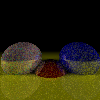
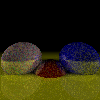
quick fix

diff --git a/src/main.rs b/src/main.rs
@@ -12,11 +12,9 @@ use sdl2::keyboard::Keycode;
 use std::time::Duration;
 use sdl2::rect::Rect;
 use std::sync::mpsc::{self, Sender};
-use std::fs::File;
-use std::io::BufWriter;
 
-const WIDTH: u32 = 400;
-const HEIGHT: u32 = 400;
+const WIDTH: u32 = 1000;
+const HEIGHT: u32 = 1000;
 
 //TODO: implement a function that checks intersects on its own
 
@@ -101,7 +99,7 @@ pub fn main() {
         .unwrap();
 
     let res_multiplier: u32 = 1; //temp
-    let resolution: Vec<u32> = vec![100, 100]; 
+    let resolution: Vec<u32> = vec![500, 500]; 
     let mut canvas = window.into_canvas().build().unwrap();
     //canvas.set_logical_size(resolution[0], resolution[1]).expect("could not set res");
     let mut event_pump = sdl_context.event_pump().unwrap();
@@ -542,7 +540,7 @@ fn trace_ray(camera_origin: &Vec<f64>, view: Vec<f64>, tmin: f64, tmax: f64, lig
         //indirect lighting comes after reflectivity? (also recursive)
         let mut rng = rand::thread_rng();
         if recursion_depth_indirect > 0.0 { //use indirect's own recursion depth
-            for _ in 0..5 { //num of indirect samples
+            for _ in 0..30 { //num of indirect samples
                 //produce random direction using the unit circle
                 let random_direction = vec![rng.gen::<f64>() * 2.0 - 1.0, rng.gen::<f64>() * 2.0 - 1.0, rng.gen::<f64>() * 2.0 - 1.0];
                 let normalized_random_direction = normalize(&random_direction);
@@ -552,7 +550,7 @@ fn trace_ray(camera_origin: &Vec<f64>, view: Vec<f64>, tmin: f64, tmax: f64, lig
                 }
             }
             //divide indirect by the number of samples
-            indirect_lighting = multiply_color_by_float(&indirect_lighting, 1.0/5.0);
+            indirect_lighting = multiply_color_by_float(&indirect_lighting, 1.0/30.0);
         }
         else if recursion_depth_indirect < 0.0 {return indirect_lighting;}
     }
